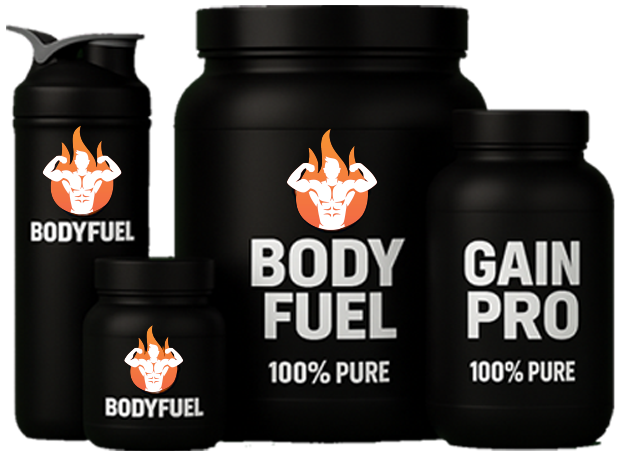
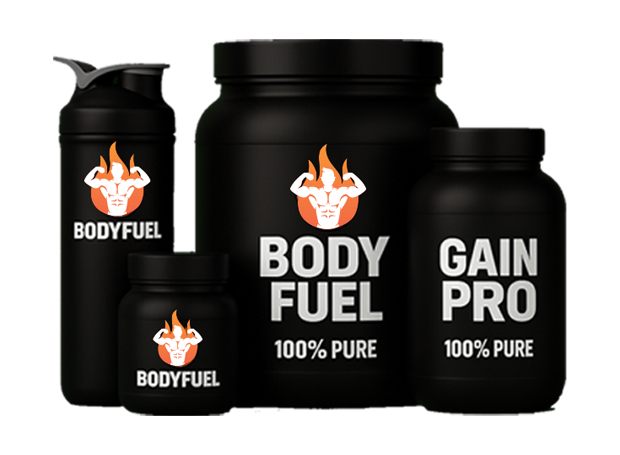
Update HeroSection image scaling for improved visual effect during loading

diff --git a/apps/shop/src/components/home-page/HeroSection.tsx b/apps/shop/src/components/home-page/HeroSection.tsx
@@ -134,7 +134,7 @@ const HeroSection = () => {
                         className={cn(
                           `object-contain pb-0 transition-all duration-1200 ease-out`,
                           isLoaded
-                            ? "transform translate-y-0 opacity-100 scale-100"
+                            ? "transform translate-y-0 opacity-100 scale-110"
                             : "transform translate-y-12 opacity-0 scale-95"
                         )}
                         style={{
